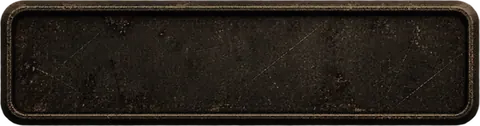
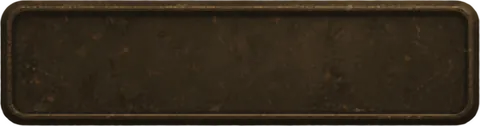
lnurlcash-wallet: Knopf-Schilder an Zählwerk angeglichen
Eisen: Plattenbraun statt Grau, feine Kratzer per Median weg, größere
unregelmäßige Lackabplatzer, Rand dunkler. Messing: Lack der
beleuchteten Karten (Creme statt Gelb), dunklere Ränder, Licht −12 %.
Lichtfarbe der Knöpfe #D9A34A (zweiter Blick).

diff --git a/src/roehren/fallblatt.css b/src/roehren/fallblatt.css
@@ -1257,3 +1257,7 @@ html[data-haut='fallblatt'] .fb-zaehl .satsym::after {
   background-image: url('./fb-sats-kalt.webp');
   filter: drop-shadow(0 1px 1px rgba(0, 0, 0, 0.7));
 }
+/* eine Lichtfarbe für Knöpfe und Zählwerk: #D9A34A, Unterschied nur in der Stärke (zweiter Blick, 2026-10-26) */
+html[data-haut='fallblatt'] .rz-knopf.an {
+  filter: drop-shadow(0 0 5px rgba(217, 163, 74, 0.3));
+}
